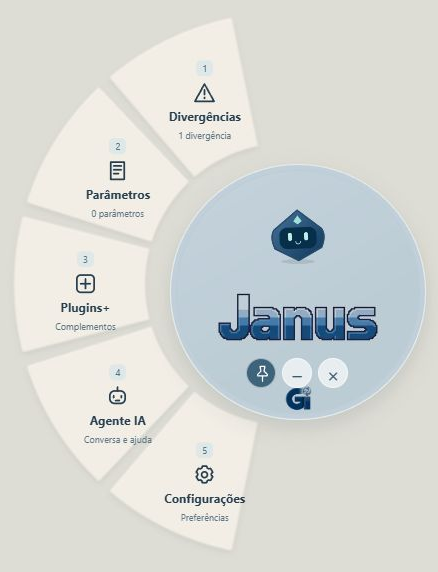
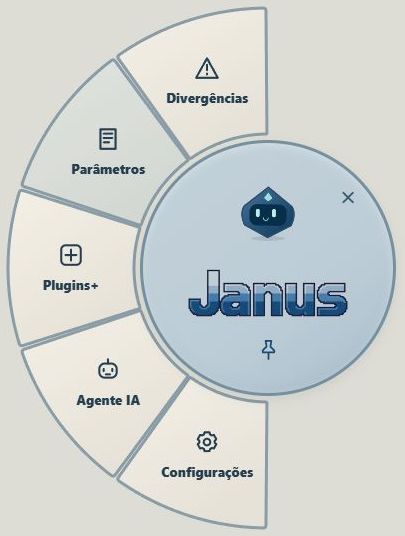
Simplify circular controls, tighten sectors and retract on pointer exit

diff --git a/src/main.ts b/src/main.ts
@@ -55,7 +55,7 @@ root.innerHTML = `
     <div class="filter-row"><select id="category" aria-label="Filtrar categoria"></select><button id="copy-mode" class="copy-mode" role="switch" aria-checked="true"><span>C</span><span>V</span></button></div><button id="city-guide" class="guide-link" hidden>Ver orientações do PDF</button>
     <div id="list" class="list" aria-label="Divergências"></div>
     </section><section id="parameters-page" class="content-page" hidden aria-label="Parâmetros do projeto"><div id="parameters-list"></div></section><section id="plugins-page" class="content-page" hidden aria-label="Plugins+"><div class="plugins-page-top"><button id="plugins-back">← Voltar</button><h2>Plugins para baixar</h2></div><div id="plugins-content"></div></section>
-    <section id="no-active-menu" class="no-active-menu" hidden><span aria-hidden="true">☁</span><p>Nenhum menu ativo por aqui...</p><small>Você pode ativar os menus nas configurações.</small></section><footer><span id="shortcut-hint" data-help></span><img class="gi-logo" src="./gi-logo.jpg" alt="GI Geotecnologia" width="38" height="35" decoding="async"><button id="about" class="release-button" aria-label="Sobre o Janus 1.0a.3">Janus 1.0a.3</button></footer>
+    <section id="no-active-menu" class="no-active-menu" hidden><span aria-hidden="true">☁</span><p>Nenhum menu ativo por aqui...</p><small>Você pode ativar os menus nas configurações.</small></section><footer><span id="shortcut-hint" data-help></span><img class="gi-logo" src="./gi-logo.jpg" alt="GI Geotecnologia" width="38" height="35" decoding="async"><button id="about" class="release-button" aria-label="Sobre o Janus 1.0a.4">Janus 1.0a.4</button></footer>
   </section>
   <div id="toast" role="status" aria-live="polite"></div>
 </main>
@@ -65,7 +65,7 @@ root.innerHTML = `
  <div class="settings-body">
  <section id="settings-general" class="settings-section" role="tabpanel" aria-labelledby="settings-general-tab">
   <div class="setting-card"><h3>Menus do painel</h3><p class="setting-description">Escolha o que aparece no Janus. Os atalhos continuam disponíveis.</p><label class="toggle"><span><strong>Mostrar divergências</strong><small>Lista e filtro das divergências do projeto.</small></span><input id="showDivergences" type="checkbox"></label><label class="toggle"><span><strong>Mostrar parâmetros</strong><small>Critérios e orientações do projeto.</small></span><input id="showParameters" type="checkbox"></label></div><div class="setting-card"><h3>Ajudas do programa</h3><label class="toggle"><span><strong>Mostrar ajudas</strong><small>Exibir dicas de atalhos e descrições ao passar o mouse. Os nomes dos botões continuam acessíveis.</small></span><input id="showHelp" type="checkbox"></label></div><div class="setting-card"><h3>Sua saudação</h3><p class="setting-description">Como o Janus chama você no dia a dia.</p><label class="field-label" for="user-name">NOME DE EXIBIÇÃO</label><input id="user-name" maxlength="100" placeholder="Usar nome do Windows"><p id="windows-name" class="small"></p></div>
-  <div class="setting-card"><h3>Atualizações</h3><p class="setting-description">Janus 1.0a.3</p><label class="toggle"><span><strong>Verificar e baixar ao abrir</strong><small>Consulta o GitHub no máximo a cada seis horas. O pacote validado é aplicado ao fechar; seus projetos são preservados.</small></span><input id="auto-update" type="checkbox" checked></label><p id="update-status" class="small" role="status">Preparando o atualizador…</p><button id="check-update" class="update-placeholder">Verificar agora</button><p class="small">Depois de fechar, aguarde alguns segundos antes de abrir novamente. Não requer instalador ou privilégios de administrador.</p></div><div class="setting-card"><h3>Personagem e sons</h3><label class="toggle"><span><strong>Personagem animado</strong><small>Desligue para usar apenas a cópia.</small></span><input id="assistant" type="checkbox"></label><label class="toggle"><span><strong>Sons do Janus</strong><small>Reações ao abrir, copiar e conversar.</small></span><input id="sound" type="checkbox"></label></div>
+  <div class="setting-card"><h3>Atualizações</h3><p class="setting-description">Janus 1.0a.4</p><label class="toggle"><span><strong>Verificar e baixar ao abrir</strong><small>Consulta o GitHub no máximo a cada seis horas. O pacote validado é aplicado ao fechar; seus projetos são preservados.</small></span><input id="auto-update" type="checkbox" checked></label><p id="update-status" class="small" role="status">Preparando o atualizador…</p><button id="check-update" class="update-placeholder">Verificar agora</button><p class="small">Depois de fechar, aguarde alguns segundos antes de abrir novamente. Não requer instalador ou privilégios de administrador.</p></div><div class="setting-card"><h3>Personagem e sons</h3><label class="toggle"><span><strong>Personagem animado</strong><small>Desligue para usar apenas a cópia.</small></span><input id="assistant" type="checkbox"></label><label class="toggle"><span><strong>Sons do Janus</strong><small>Reações ao abrir, copiar e conversar.</small></span><input id="sound" type="checkbox"></label></div>
  </section>
  <section id="settings-window" class="settings-section" role="tabpanel" aria-labelledby="settings-window-tab" hidden>
   <div class="setting-card"><h3>Posição habitual</h3><p class="setting-description">Dois cliques no cabeçalho trazem o Janus de volta.</p><label class="field-label" for="anchor">ONDE FICAR</label><select id="anchor"><option value="top-right">Canto superior direito</option><option value="top-left">Canto superior esquerdo</option><option value="bottom-right">Canto inferior direito</option><option value="bottom-left">Canto inferior esquerdo</option><option value="custom">Posição que eu salvei</option></select><div class="position-buttons"><button id="remember-position">Guardar posição atual</button><button id="go-home">Voltar à posição habitual</button></div></div>
@@ -82,7 +82,7 @@ root.innerHTML = `
  </section>
  </div>
 </dialog>
-<dialog id="info" aria-labelledby="info-title"><div class="dialog-top"><span class="eyebrow">GI GEOTECNOLOGIA</span><button class="icon dismiss" aria-label="Fechar informações">×</button></div><h2 id="info-title">Janus 1.0a.3</h2><p class="about-description">O Janus é um assistente corporativo desenvolvido para otimizar e modernizar o fluxo de trabalho nos setores de cadastramento imobiliário da GI Geotecnologia. Projetado como uma solução centralizada, o software acelera o tratamento de divergências e agiliza a consulta de parâmetros, operando em conjunto com agentes inteligentes que automatizam e dão suporte à execução das demandas operacionais. Com foco em produtividade, o Janus destaca-se por ser uma plataforma altamente customizável. A ferramenta oferece uma ampla gama de atalhos para dar fluidez ao serviço e possui uma arquitetura aberta, permitindo que os próprios usuários desenvolvam e integrem plugins personalizados por meio de uma documentação clara, simples e acessível.</p><p class="release-scope">Plugins+ permite baixar, ativar e desativar o Menu circular. Este primeiro formato personaliza a interface; outros tipos de integração serão adicionados posteriormente.</p><details class="about-credits"><summary>Créditos e informações da versão</summary><p>Personagem geométrico e sons sintetizados próprios do Janus. Código derivado do Coucou de Louis Raillé, sob licença MIT. Consulte os créditos que acompanham o programa.</p><p id="source-note"></p><p>Preferências e projetos ficam em dados/preferencias.json ao lado do executável. As conexões de IA ficam no Gerenciador de Credenciais do Windows.</p></details></dialog>`;
+<dialog id="info" aria-labelledby="info-title"><div class="dialog-top"><span class="eyebrow">GI GEOTECNOLOGIA</span><button class="icon dismiss" aria-label="Fechar informações">×</button></div><h2 id="info-title">Janus 1.0a.4</h2><p class="about-description">O Janus é um assistente corporativo desenvolvido para otimizar e modernizar o fluxo de trabalho nos setores de cadastramento imobiliário da GI Geotecnologia. Projetado como uma solução centralizada, o software acelera o tratamento de divergências e agiliza a consulta de parâmetros, operando em conjunto com agentes inteligentes que automatizam e dão suporte à execução das demandas operacionais. Com foco em produtividade, o Janus destaca-se por ser uma plataforma altamente customizável. A ferramenta oferece uma ampla gama de atalhos para dar fluidez ao serviço e possui uma arquitetura aberta, permitindo que os próprios usuários desenvolvam e integrem plugins personalizados por meio de uma documentação clara, simples e acessível.</p><p class="release-scope">Plugins+ permite baixar, ativar e desativar o Menu circular. Este primeiro formato personaliza a interface; outros tipos de integração serão adicionados posteriormente.</p><details class="about-credits"><summary>Créditos e informações da versão</summary><p>Personagem geométrico e sons sintetizados próprios do Janus. Código derivado do Coucou de Louis Raillé, sob licença MIT. Consulte os créditos que acompanham o programa.</p><p id="source-note"></p><p>Preferências e projetos ficam em dados/preferencias.json ao lado do executável. As conexões de IA ficam no Gerenciador de Credenciais do Windows.</p></details></dialog>`;
 const $ = <T extends HTMLElement = HTMLElement>(id:string) => document.getElementById(id) as T;
 const emptyProject:City={id:'',name:'Nenhum projeto',source:'',items:[]};
 const city = () => catalog.find(c=>c.id===prefs.city) ?? emptyProject;
@@ -98,14 +98,14 @@ async function sizeRadial(frame:RadialFrame,force=false){
   try{
    await invoke('radial_region',{polygons:null});await win.setMinSize(null);await win.setSize(new LogicalSize(frame.geometry.width,frame.geometry.height));
    const x=old?position.x+(old.geometry.cx-frame.geometry.cx)*scale:(prefs.lastPosition?.x??position.x),y=old?position.y+(old.geometry.cy-frame.geometry.cy)*scale:(prefs.lastPosition?.y??position.y);
-   await invoke('dock_window',{anchor:prefs.pinned&&prefs.anchor!=='custom'?prefs.anchor:'custom',x:Math.round(x),y:Math.round(y)});await invoke('radial_region',{polygons:frame.polygons});
+   await invoke('dock_window',{anchor:!old&&prefs.pinned&&prefs.anchor!=='custom'?prefs.anchor:'custom',x:Math.round(x),y:Math.round(y)});await invoke('radial_region',{polygons:frame.polygons});
    const p=await win.outerPosition();prefs.lastPosition={x:p.x,y:p.y};save();
   }finally{movingProgrammatically=false;}
  }).catch(()=>toast('Não foi possível ajustar o menu circular. Use Plugins+ para desativá-lo.',true));
  await radialSizing;
 }
 async function showRadial(value=false){
- const transition=++radialTransition;if(value&&radialShown&&!compact&&!radialPicker&&radialRoute==='home'&&!matchMedia('(prefers-reduced-motion: reduce)').matches){radialFolding=true;radialView?.element.classList.add('radial-retract');await new Promise(resolve=>setTimeout(resolve,180));if(transition!==radialTransition)return;}radialFolding=false;radialView?.element.classList.remove('radial-retract');
+ const transition=++radialTransition;if(value&&radialShown&&!compact&&!radialPicker&&radialRoute==='home'&&!matchMedia('(prefers-reduced-motion: reduce)').matches){radialFolding=true;radialView?.element.classList.add('radial-retract');await new Promise(resolve=>setTimeout(resolve,320));if(transition!==radialTransition)return;}radialFolding=false;radialView?.element.classList.remove('radial-retract');
  if(!radialLayout||!radialView)return;radialRoute='home';root.dataset.radialPage='home';document.querySelectorAll<HTMLDialogElement>('dialog[open]').forEach(d=>d.close());if(chatOpen){chatOpen=false;$('janus-chat').hidden=true;root.classList.remove('chatting');}const changed=prefs.radialCompact!==value;prefs.radialCompact=value;compact=value;radialShown=true;radialPicker=false;root.classList.add('radial-mode');root.classList.remove('compact');
  const frame=radialView.main(value,{divergences:groups().length,parameters:guidanceForCity().parameters.filter(s=>s.text.trim()).length},action=>void radialAction(action));
  await sizeRadial(frame);applyLook();if(changed)save();
@@ -129,7 +129,7 @@ async function radialAction(action:string,settingsSection:SettingsSection='gener
 async function changePlugin(layout:Layout|null){
  if(pickerActive)await closeCategory();if(radialShown)await leaveRadial();radialView?.destroy();radialView=null;radialLayout=layout;
  $('radial-return').hidden=!layout;
- if(layout){if(chatOpen)await closeChat();document.querySelectorAll<HTMLDialogElement>('dialog[open]').forEach(d=>d.close());radialView=new RadialView(root,layout,prefs.anchor.endsWith('left'));await showRadial(Boolean(prefs.radialCompact));}
+ if(layout){if(chatOpen)await closeChat();document.querySelectorAll<HTMLDialogElement>('dialog[open]').forEach(d=>d.close());radialView=new RadialView(root,layout,prefs.anchor.endsWith('left'));await showRadial(true);}
 }
 function paintRadialPicker(focus=false){
  if(!radialView)return;const frame=radialView.picker({title:$('picker-title').textContent||pickerName,items:pickerItems.map(item=>({text:directText(item.text)})),index:pickerIndex,note:categoryNote(pickerName),guidance:prefs.showPickerGuidance,copyMode:prefs.copyMode,
@@ -143,8 +143,8 @@ function radialKeys(e:KeyboardEvent){
   if(e.key==='Escape'){e.preventDefault();void closeCategory();return true;}
   if(e.key==='Enter'&&(e.target as HTMLElement).closest('.radial-petal')){e.preventDefault();void pick(pickerIndex);return true;}
  }else{
-  if(/^[1-5]$/.test(e.key)&&!compact){e.preventDefault();const slot=radialLayout?.slots[Number(e.key)-1];if(slot)void radialAction(slot.action);return true;}
-  if(['ArrowUp','ArrowDown','ArrowLeft','ArrowRight'].includes(e.key)&&!compact){e.preventDefault();const index=Number((document.activeElement as HTMLElement)?.dataset.radialIndex??-1);radialView?.focus(moveSelection(index,5,e.key));return true;}
+  if(/^[1-5]$/.test(e.key)&&!compact&&radialRoute==='home'){e.preventDefault();const slot=radialLayout?.slots[Number(e.key)-1];if(slot)void radialAction(slot.action);return true;}
+  if(['ArrowUp','ArrowDown','ArrowLeft','ArrowRight'].includes(e.key)&&!compact&&radialRoute==='home'){e.preventDefault();const index=Number((document.activeElement as HTMLElement)?.dataset.radialIndex??-1);radialView?.focus(moveSelection(index,5,e.key));return true;}
   if(e.key==='Escape'){e.preventDefault();void showRadial(true);return true;}
  }return false;
 }
@@ -406,7 +406,7 @@ async function boot() {
   else document.addEventListener('pointermove',e=>pointAt(e.clientX,e.clientY));
   let foldTimer=0;
   root.onmouseenter=()=>{clearTimeout(foldTimer);if((compact||radialFolding)&&(radialShown||prefs.hover))void setCompact(false);};
-  root.onmouseleave=()=>{if(!prefs.pinned&&(prefs.hover||radialShown)&&(!radialShown||radialRoute==='home')&&!compact&&!chatOpen&&!pickerActive&&!document.querySelector('dialog[open]'))foldTimer=window.setTimeout(()=>void setCompact(true),700);};
+  root.onmouseleave=()=>{if((radialShown||!prefs.pinned&&prefs.hover)&&(!radialShown||radialRoute==='home')&&!compact&&!chatOpen&&!pickerActive&&!document.querySelector('dialog[open]'))foldTimer=window.setTimeout(()=>void setCompact(true),180);};
   document.addEventListener('visibilitychange',()=>{applyLook();});
   document.addEventListener('keydown',e=>{
     if(!native&&e.ctrlKey&&e.shiftKey&&/^Digit[0-9]$/.test(e.code)){const number=Number(e.code.slice(5)),group=groups()[number===0?9:number-1];if(group){e.preventDefault();void requestCategory(group.name);return;}}
@@ -643,7 +643,7 @@ function syncChatConnection(){
  $<HTMLButtonElement>('ask-ai').disabled=!aiConnected||aiBusy;
 }
 async function closeChat(){if(!chatOpen)return;chatOpen=false;$('janus-chat').hidden=true;root.classList.remove('chatting');Sound.play('close');if(radialShown)await showRadial(false);else await setCompact(chatReturnCompact);applyLook();}
-root.querySelector('.shell')!.insertAdjacentHTML('beforeend',`<section id="janus-chat" class="janus-chat" hidden aria-label="Chat do Janus"><div class="chat-toolbar"><button id="close-chat" aria-label="Voltar ao painel">← Voltar ao painel</button><button id="clear-chat" title="Limpar conversa deste projeto">Limpar conversa</button></div><div class="chat-intro"><div class="speech-bubble"><strong>Converse com o Janus</strong><span>Uma ajuda para o seu projeto.</span></div></div><div id="chat-transcript" class="chat-transcript" role="log" aria-label="Conversa" aria-live="polite"><div id="chat-welcome" class="chat-welcome"><h3>Em que posso ajudar?</h3><p>Faça uma pergunta, peça uma explicação ou converse sobre o projeto.</p><p class="small">A conversa fica disponível enquanto o Janus estiver aberto.</p></div><p id="chat-disconnected" class="small">Conecte um agente IA nas configurações para enviar mensagens.</p><button id="chat-connect" class="connect-chat">Conectar agente IA</button><div id="chat-messages"></div><div id="thinking" class="thinking" role="status" aria-label="Janus está pensando" hidden><span></span><span></span><span></span></div></div><div class="chat-compose"><label class="field-label" for="ai-question">SUA MENSAGEM</label><textarea id="ai-question" rows="2" maxlength="10000" placeholder="Escreva sua mensagem…"></textarea><div class="chat-compose-actions"><small data-help>Enter envia · Shift + Enter pula linha</small><button class="primary" id="ask-ai">Enviar ↑</button></div></div><label class="chat-context"><input type="checkbox" id="ai-context"> Incluir divergências e parâmetros do projeto</label><p class="chat-privacy">Ao enviar, sua mensagem, as últimas mensagens da conversa e o conteúdo marcado vão para o provedor de IA conectado.</p><span class="app-version chat-version">Janus 1.0a.3</span></section>`);
+root.querySelector('.shell')!.insertAdjacentHTML('beforeend',`<section id="janus-chat" class="janus-chat" hidden aria-label="Chat do Janus"><div class="chat-toolbar"><button id="close-chat" aria-label="Voltar ao painel">← Voltar ao painel</button><button id="clear-chat" title="Limpar conversa deste projeto">Limpar conversa</button></div><div class="chat-intro"><div class="speech-bubble"><strong>Converse com o Janus</strong><span>Uma ajuda para o seu projeto.</span></div></div><div id="chat-transcript" class="chat-transcript" role="log" aria-label="Conversa" aria-live="polite"><div id="chat-welcome" class="chat-welcome"><h3>Em que posso ajudar?</h3><p>Faça uma pergunta, peça uma explicação ou converse sobre o projeto.</p><p class="small">A conversa fica disponível enquanto o Janus estiver aberto.</p></div><p id="chat-disconnected" class="small">Conecte um agente IA nas configurações para enviar mensagens.</p><button id="chat-connect" class="connect-chat">Conectar agente IA</button><div id="chat-messages"></div><div id="thinking" class="thinking" role="status" aria-label="Janus está pensando" hidden><span></span><span></span><span></span></div></div><div class="chat-compose"><label class="field-label" for="ai-question">SUA MENSAGEM</label><textarea id="ai-question" rows="2" maxlength="10000" placeholder="Escreva sua mensagem…"></textarea><div class="chat-compose-actions"><small data-help>Enter envia · Shift + Enter pula linha</small><button class="primary" id="ask-ai">Enviar ↑</button></div></div><label class="chat-context"><input type="checkbox" id="ai-context"> Incluir divergências e parâmetros do projeto</label><p class="chat-privacy">Ao enviar, sua mensagem, as últimas mensagens da conversa e o conteúdo marcado vão para o provedor de IA conectado.</p><span class="app-version chat-version">Janus 1.0a.4</span></section>`);
 root.insertAdjacentHTML('afterend',`
 <dialog id="guidance-menu" aria-labelledby="guidance-title"><div class="dialog-top"><h2 id="guidance-title"></h2><button class="icon dismiss" aria-label="Fechar orientações da categoria">×</button></div><div id="guidance-content"></div></dialog>
 <dialog id="category-picker"><div class="dialog-top"><span class="eyebrow">ESCOLHA A DIVERGÊNCIA</span><button id="close-picker" class="icon" aria-label="Fechar opções">×</button></div><h2 id="picker-title"></h2><button id="toggle-picker-guidance" class="picker-guidance-toggle" aria-controls="picker-guidance">Ocultar orientações</button><div id="picker-guidance"></div><p id="picker-action-hint" class="small" data-help>↑ ↓ para escolher · Enter para colar · Esc para voltar</p><div id="picker-options" role="listbox" aria-label="Opções da divergência"></div></dialog>

diff --git a/src/radial.ts b/src/radial.ts
@@ -18,24 +18,22 @@ export class RadialView{
   return {geometry,hub,polygons:[circle(geometry)]} as RadialFrame&{hub:HTMLElement};
  }
  private petals(labels:{title:string;detail:string;icon?:string;number:string;selected?:boolean;click:()=>void;focus?:()=>void}[],frame:RadialFrame){
-  const svg=document.createElementNS('http://www.w3.org/2000/svg','svg');svg.classList.add('radial-shapes');svg.setAttribute('viewBox',`0 0 ${frame.geometry.width} ${frame.geometry.height}`);svg.setAttribute('aria-hidden','true');this.element.prepend(svg);
+  const svg=document.createElementNS('http://www.w3.org/2000/svg','svg');svg.classList.add('radial-shapes');const defs=document.createElementNS(svg.namespaceURI,'defs');defs.innerHTML='<linearGradient id="radial-paper-depth" x1="0" y1="0" x2=".6" y2="1"><stop offset="0%" stop-color="'+this.layout.palette.paper+'"/><stop offset="100%" stop-color="#e5e1d8"/></linearGradient>';svg.append(defs);svg.setAttribute('viewBox',`0 0 ${frame.geometry.width} ${frame.geometry.height}`);svg.setAttribute('aria-hidden','true');this.element.prepend(svg);
   labels.forEach((item,index)=>{
-   const shape=sector(index,labels.length,frame.geometry);frame.polygons.push(sector(index,labels.length,{...frame.geometry,inner:frame.geometry.inner*.92,outer:frame.geometry.outer+2}).points);
+   const shape=sector(index,labels.length,frame.geometry);frame.polygons.push(sector(index,labels.length,{...frame.geometry,inner:0,outer:frame.geometry.outer+4}).points);
    const path=document.createElementNS('http://www.w3.org/2000/svg','path');path.setAttribute('d',shape.path);if(item.selected)path.classList.add('selected');path.style.setProperty('--petal-delay',`${index*35}ms`);svg.append(path);
    const button=document.createElement('button');button.className='radial-petal';const xs=shape.points.map((p:number[])=>p[0]),ys=shape.points.map((p:number[])=>p[1]),x=Math.min(...xs),y=Math.min(...ys),w=Math.max(...xs)-x,h=Math.max(...ys)-y;button.style.inset='auto';button.style.left=x+'px';button.style.top=y+'px';button.style.width=w+'px';button.style.height=h+'px';button.style.transformOrigin=`${frame.geometry.cx-x}px ${frame.geometry.cy-y}px`;button.style.clipPath='polygon('+shape.points.map((p:number[])=>`${(p[0]-x)/w*100}% ${(p[1]-y)/h*100}%`).join(',')+')';button.setAttribute('aria-label',item.title);if(item.selected!==undefined)button.setAttribute('aria-pressed',String(item.selected));button.style.setProperty('--petal-delay',`${index*35}ms`);button.dataset.radialIndex=String(index);button.onclick=item.click;
    if(item.focus){button.onpointerenter=item.focus;button.onfocus=item.focus;}
    const content=document.createElement('span');content.className='radial-petal-copy';content.style.left=(shape.label[0]-x)+'px';content.style.top=(shape.label[1]-y)+'px';
-   const key=document.createElement('kbd');key.textContent=item.number;content.append(key);
+
    if(item.icon){const icon=document.createElement('span');icon.className='radial-icon';icon.innerHTML=svgIcon(item.icon);content.append(icon);}
-   const title=document.createElement('strong');title.textContent=item.title;const detail=document.createElement('small');detail.textContent=item.detail;content.append(title,detail);button.append(content);this.element.append(button);
+   const title=document.createElement('strong');title.textContent=item.title;content.append(title);button.append(content);this.element.append(button);
   });
  }
- main(compact:boolean,counts:{divergences:number;parameters:number},action:(name:string)=>void,workspace=false,route=''):RadialFrame{
+ main(compact:boolean,_counts:{divergences:number;parameters:number},action:(name:string)=>void,workspace=false,_route=''):RadialFrame{
   const frame=this.base(compact,false,workspace);this.element.setAttribute('aria-label',compact?'Janus circular recolhido':'Menu circular do Janus');
-  if(!compact)this.petals(this.layout.slots.map((slot,index)=>({title:slot.label,detail:slot.action==='divergences'?`${counts.divergences} ${counts.divergences===1?'divergência':'divergências'}`:slot.action==='parameters'?`${counts.parameters} ${counts.parameters===1?'parâmetro':'parâmetros'}`:slot.action==='agent'?'Conversa e ajuda':slot.action==='plugins'?'Complementos':'Preferências',selected:workspace?slot.action===route:undefined,icon:slot.icon,number:String(index+1),click:()=>action(slot.action)})),frame);
+  if(!compact&&!workspace)this.petals(this.layout.slots.map(slot=>({title:slot.label,detail:'',icon:slot.icon,number:'',click:()=>action(slot.action)})),frame);
   if(workspace){const back=document.createElement('button');back.className='radial-home';back.textContent='← Menu circular';back.onclick=()=>action('home');frame.hub.append(back);return frame;}
-  const gi=document.createElement('img');gi.src='./gi-logo.jpg';gi.alt='GI Geotecnologia';gi.className='radial-gi';frame.hub.append(gi);
-  const hint=document.createElement('small');hint.className='radial-main-hint';hint.dataset.help='';hint.textContent=compact?'Ctrl + Shift + D':'1–5 com o menu em foco';frame.hub.append(hint);
   return frame;
  }
  picker(options:{title:string;items:{text:string}[];index:number;note:string;guidance:boolean;copyMode:string;pick:(index:number)=>void;select:(index:number)=>void;close:()=>void;toggleGuidance:()=>void}):RadialFrame{

diff --git a/src/radial.css b/src/radial.css
@@ -63,3 +63,36 @@
 
 .radial-mode.picking .radial-petal-copy strong{display:-webkit-box;-webkit-box-orient:vertical;-webkit-line-clamp:3;overflow:hidden;max-height:43px;font-size:11px}.radial-mode.picking .radial-petal-copy small{font-size:8px}.radial-mode.picking .radial-petal-copy{width:90px;gap:4px}
 .radial-mode.chatting #collapse{display:grid!important}.radial-mode .chat-toolbar #close-chat{display:none}.radial-mode .chat-toolbar{justify-content:flex-end}.radial-mode .chat-welcome{padding:10px 4px;margin:0;min-height:0}.radial-mode .chat-welcome h3{margin:0 0 6px}.radial-mode .chat-welcome p{margin:0;line-height:1.6}.radial-mode .chat-compose textarea{padding:9px;box-sizing:border-box}.radial-mode .chat-message{font-size:11px;line-height:1.6}
+
+/* Compact visual language: one icon, one bold title, a close control and a pin. */
+.radial-mode{padding:0!important;-webkit-font-smoothing:antialiased;text-rendering:optimizeLegibility}
+.radial-mode .radial-hub{border:3px solid #718d9e;background:linear-gradient(145deg,color-mix(in srgb,var(--radial-hub) 90%,white),var(--radial-hub) 64%,#a6bdcb);box-shadow:inset 0 2px 9px #ffffff62,inset 0 -5px 10px #385d7414,0 4px 12px #18374e18;opacity:var(--opacity,1)}
+.radial-hub:before{display:none}
+.radial-shapes path{fill:url(#radial-paper-depth);stroke:#8a9ca6;stroke-width:3;filter:none;shape-rendering:geometricPrecision}
+.radial-shapes path.selected{fill:#dde9ee;stroke:#4a6f87;stroke-width:3}
+.radial-mode .radial-icon svg{width:26px;height:26px;stroke-width:1.9;shape-rendering:geometricPrecision;image-rendering:auto}
+.radial-mode .radial-petal-copy{width:114px;gap:9px;line-height:1.25;white-space:normal}
+.radial-mode .radial-petal-copy strong{font:800 13px/1.3 'Segoe UI',sans-serif;max-width:114px;white-space:normal;overflow-wrap:anywhere;text-wrap:balance}
+.radial-mode .radial-petal-copy kbd,.radial-mode .radial-petal-copy small{display:none!important}
+.radial-mode .window-actions{display:contents}
+.radial-mode .window-actions #collapse,.radial-mode.chatting .window-actions #collapse,.radial-mode .window-actions #expand{display:none!important}
+.radial-mode .window-actions #close,.radial-mode .window-actions #pin{position:absolute;display:grid;place-items:center;width:30px;height:30px;padding:4px;border:0!important;outline-offset:2px;border-radius:0!important;box-shadow:none!important;background:transparent!important;color:#34566d;left:calc(var(--radial-cx) - 15px);top:calc(var(--radial-cy) + 66px);transition:color .2s,opacity .2s}
+.radial-mode .window-actions #close{left:calc(var(--radial-cx) + 65px);top:calc(var(--radial-cy) - 91px);font:400 28px/1 'Segoe UI',sans-serif}
+.radial-mode .window-actions #pin.selected{color:#174b70}.radial-mode .window-actions #pin:not(.selected){opacity:.6}
+.radial-mode .window-actions #close:hover{color:#ac403b}.radial-mode .window-actions #pin:hover{color:#123f5b;opacity:1}
+.radial-mode .radial-gi,.radial-mode .radial-main-hint{display:none!important}
+.radial-mode:not([data-radial-page=home]) .window-actions #close{left:calc(var(--radial-cx) + 160px);top:calc(var(--radial-cy) - 156px)}
+.radial-mode:not([data-radial-page=home]) .window-actions #pin{left:calc(var(--radial-cx) - 15px);top:calc(var(--radial-cy) + 187px)}
+.radial-mode .radial-home{border:2px solid #8ca5b5;background:linear-gradient(#f0f4f5,#dde7ec)}
+.radial-mode dialog[open]{border:2px solid #8ca1af;background:linear-gradient(145deg,#f7f6f0,#eeeee8)}
+.radial-mode .workspace .divergence-group,.radial-mode .workspace .parameter-card,.radial-mode .plugin-card,.radial-mode .chat-transcript{border:2px solid #99aeb9;background:linear-gradient(145deg,#f8f6efee,#e9eeedee)}
+.radial-mode .radial-preview{border-radius:15px}
+.radial-enter .radial-petal,.radial-enter .radial-shapes path{animation:radial-emerge .36s cubic-bezier(.2,.75,.3,1) both;animation-delay:var(--petal-delay,0ms)}
+@keyframes radial-emerge{from{opacity:0;transform:scale(.46)}to{opacity:1;transform:scale(1)}}
+.radial-retract .radial-petal,.radial-retract .radial-shapes path{animation:radial-retreat .32s cubic-bezier(.4,0,.75,.5) both!important;pointer-events:none}
+@keyframes radial-retreat{to{opacity:0;transform:scale(.46)}}
+.radial-mode.picking .radial-petal-copy{width:98px}.radial-mode.picking .radial-petal-copy strong{font-size:12px;max-width:98px;max-height:63px;-webkit-line-clamp:4}
+@media(prefers-reduced-motion:reduce){.radial-retract .radial-petal,.radial-retract .radial-shapes path{animation:none!important;opacity:0}}
+
+.radial-mode .window-actions #pin svg{width:23px;height:23px;stroke-width:1.8;image-rendering:auto}
+.radial-mode #preferences .settings-heading .dialog-top{display:none}

diff --git a/README.md b/README.md
@@ -4,19 +4,19 @@ Assistente portátil para Windows: consulta de divergências e parâmetros, atal
 
 ## Baixar Janus
 
-[**⬇ Baixar Janus para Windows — portátil (.zip)**](https://github.com/kawanlemesgeourbano/janus/releases/download/v1.0a.3/Janus-Windows-portatil.zip)
+[**⬇ Baixar Janus para Windows — portátil (.zip)**](https://github.com/kawanlemesgeourbano/janus/releases/download/v1.0a.4/Janus-Windows-portatil.zip)
 
 Extraia o ZIP em uma pasta onde você possa salvar arquivos e abra **Janus.exe**. Sem instalador e sem execução como administrador. Windows de 64 bits com Microsoft Edge WebView2 disponível.
 
 O programa começa sem projetos cadastrados. Quem usa 1.0a precisa fechar o Janus e substituir o executável uma vez, mantendo a pasta `dados`. Depois, o atualizador verifica novas versões ao abrir, baixa o pacote assinado e aplica ao fechar. Aguarde alguns segundos antes de abrir novamente.
 
-[Detalhes do download e verificação SHA-256](https://github.com/kawanlemesgeourbano/janus/releases/tag/v1.0a.3). Esta é uma versão alpha.
+[Detalhes do download e verificação SHA-256](https://github.com/kawanlemesgeourbano/janus/releases/tag/v1.0a.4). Esta é uma versão alpha.
 
 ## Menu circular · plugin opcional
 
 <img src="docs/images/menu-circular.png" alt="Prévia do menu circular opcional do Janus" width="300">
 
-No Janus, abra **Plugins+ → Menu circular → Baixar plugin → Ativar**. O menu circular e os seletores de cópia passam a usar setores ao redor do centro, com navegação por mouse e teclado. Todas as funções permanecem no círculo ampliado, incluindo chat e configurações. Os setores se revelam ao passar o mouse pelo círculo recolhido; o alfinete, a minimização e os cantos da tela ficam disponíveis no próprio modo.
+No Janus, abra **Plugins+ → Menu circular → Baixar plugin → Ativar**. O menu circular e os seletores de cópia passam a usar setores ao redor do centro, com navegação por mouse e teclado. Todas as funções permanecem no círculo ampliado, incluindo chat e configurações. Os setores exibem apenas ícones e títulos em negrito, surgem ao passar o mouse e recolhem ao sair, mesmo com o alfinete ativo. Ao escolher uma função, as demais opções desaparecem. O fechamento e o alfinete ficam no próprio círculo.
 
 Use **Plugins+ → Desativar** para voltar ao painel original, ou **Remover** para excluir o pacote. Trocar o projeto ativo não altera a ativação do plugin. O download é separado do executável e não é obrigatório.
 

diff --git a/docs/PLUGINS.md b/docs/PLUGINS.md
@@ -4,7 +4,7 @@ Plugins+ oferece download, ativação, desativação e remoção. Nenhum plugin 
 
 ## Primeiro plugin: Menu circular
 
-Abre um menu em leque com divergências, parâmetros, Plugins+, agente IA e configurações. O Janus continua desenhando seu próprio personagem e logo. Todas as funções permanecem no modo circular. O centro se amplia para listas, parâmetros, Plugins+, chat e configurações; o botão Menu circular retorna ao início.
+Abre um menu em leque com divergências, parâmetros, Plugins+, agente IA e configurações. O Janus continua desenhando seu próprio personagem e logo. Todas as funções permanecem no modo circular. O centro se amplia para listas, parâmetros, Plugins+, chat e configurações; o botão Menu circular retorna ao início. Ao abrir uma função, os demais setores desaparecem.
 
 - **Ctrl + Shift + D:** abrir/recolher o menu circular.
 - **1 a 5, com o menu em foco:** abrir uma das cinco funções.
@@ -32,8 +32,8 @@ Publique o pacote assinado no caminho do catálogo oficial somente depois de tes
 
 ### Comportamento do menu
 
-- O centro tem movimento sutil. Os setores surgem suavemente ao passar o mouse pelo círculo recolhido; sem fixar, recolhem após sair. A preferência de redução de movimento do Windows é respeitada.
+- O centro tem movimento sutil. Os setores surgem suavemente ao passar o mouse pelo círculo recolhido; recolhem após sair, mesmo com o alfinete ativo. A preferência de redução de movimento do Windows é respeitada.
 - O alfinete mantém o Janus sobre outras janelas. Em **Configurações → Janela → Posição habitual**, escolha um canto; ao fixar, o menu respeita esse canto. Nos cantos da esquerda, os setores abrem para a direita.
-- **−** minimiza para a barra de tarefas e **×** encerra. **Ctrl + Shift + D** continua abrindo/recolhendo o círculo.
+- **×** encerra; o alfinete abaixo do logo fixa sobre as outras janelas. **Ctrl + Shift + D** continua abrindo/recolhendo o círculo.
 - Todas as páginas ficam no círculo ampliado, com rolagem no conteúdo e uma única cabeça do assistente. Trocar de função não desativa o plugin.
 - Quem já instalou o Menu circular recebe os ajustes de apresentação ao atualizar o Janus; não precisa reinstalar o pacote do plugin.

diff --git a/plugins/menu-circular/README.md b/plugins/menu-circular/README.md
@@ -17,8 +17,8 @@ Personagem, animações e sons continuam sendo os próprios do Janus. A imagem d
 
 ### Comportamento do menu
 
-- O centro tem movimento sutil. Os setores surgem suavemente ao passar o mouse pelo círculo recolhido; sem fixar, recolhem após sair. A preferência de redução de movimento do Windows é respeitada.
+- O centro tem movimento sutil. Os setores surgem suavemente ao passar o mouse pelo círculo recolhido; recolhem após sair, mesmo com o alfinete ativo. A preferência de redução de movimento do Windows é respeitada.
 - O alfinete mantém o Janus sobre outras janelas. Em **Configurações → Janela → Posição habitual**, escolha um canto; ao fixar, o menu respeita esse canto. Nos cantos da esquerda, os setores abrem para a direita.
-- **−** minimiza para a barra de tarefas e **×** encerra. **Ctrl + Shift + D** continua abrindo/recolhendo o círculo.
+- **×** encerra; o alfinete abaixo do logo fixa sobre as outras janelas. **Ctrl + Shift + D** continua abrindo/recolhendo o círculo.
 - Todas as páginas ficam no círculo ampliado, com rolagem no conteúdo e uma única cabeça do assistente. Trocar de função não desativa o plugin.
 - Quem já instalou o Menu circular recebe os ajustes de apresentação ao atualizar o Janus; não precisa reinstalar o pacote do plugin.
